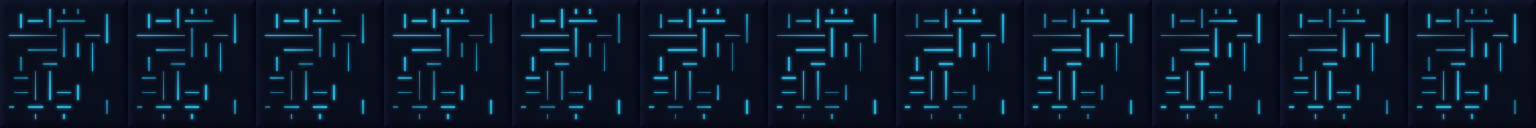
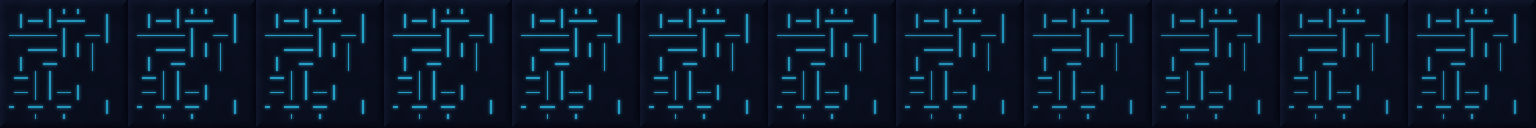
app: space board, the dark squares glow softly all at once instead of a light running along a diagonal (in step on every square, it made moving diagonals across the board)

diff --git a/app/tools/sprites/space.py b/app/tools/sprites/space.py
@@ -224,7 +224,10 @@ def plate_light(S=128):
 
 def plate_dark(S=128, frames=12):
     """A navy plate with a fine circuit texture (many thin traces, like a
-    printed board seen from afar) whose light runs slowly along them."""
+    printed board seen from afar) that glows softly, all at once. (A light
+    running along a diagonal, as before, made moving diagonals across the
+    whole board, every dark square being in step: the user found it
+    disturbing.)"""
     out = []
     x, y = grid(S, S)
     n = noise2(x * 8, y * 8, 5.0, 4)
@@ -243,7 +246,7 @@ def plate_dark(S=128, frames=12):
     for f in range(frames):
         ph = f / frames
         c = base[:, None, None] * (0.85 + 0.3 * n)
-        pulse = 0.25 + 0.75 * (0.5 + 0.5 * torch.sin(TAU * ((x + y) * 1.0 - ph)))
+        pulse = 0.6 + 0.12 * math.sin(TAU * ph)   # uniform and faint: no wave travels across the board
         glowmap = traces * pulse
         halo = gauss_blur(glowmap[None], 1.5)[0]
         c = c + srgb("#2cb8e6")[:, None, None] * (glowmap * 0.55 + halo * 0.35)
